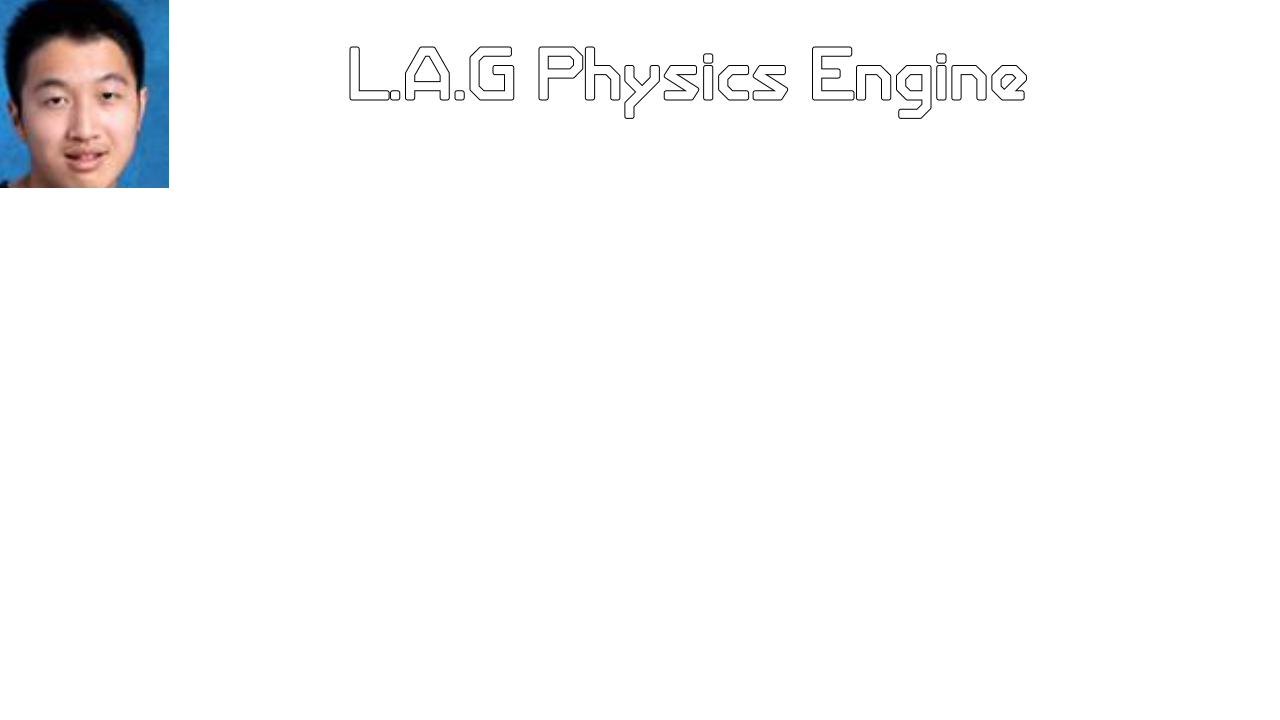
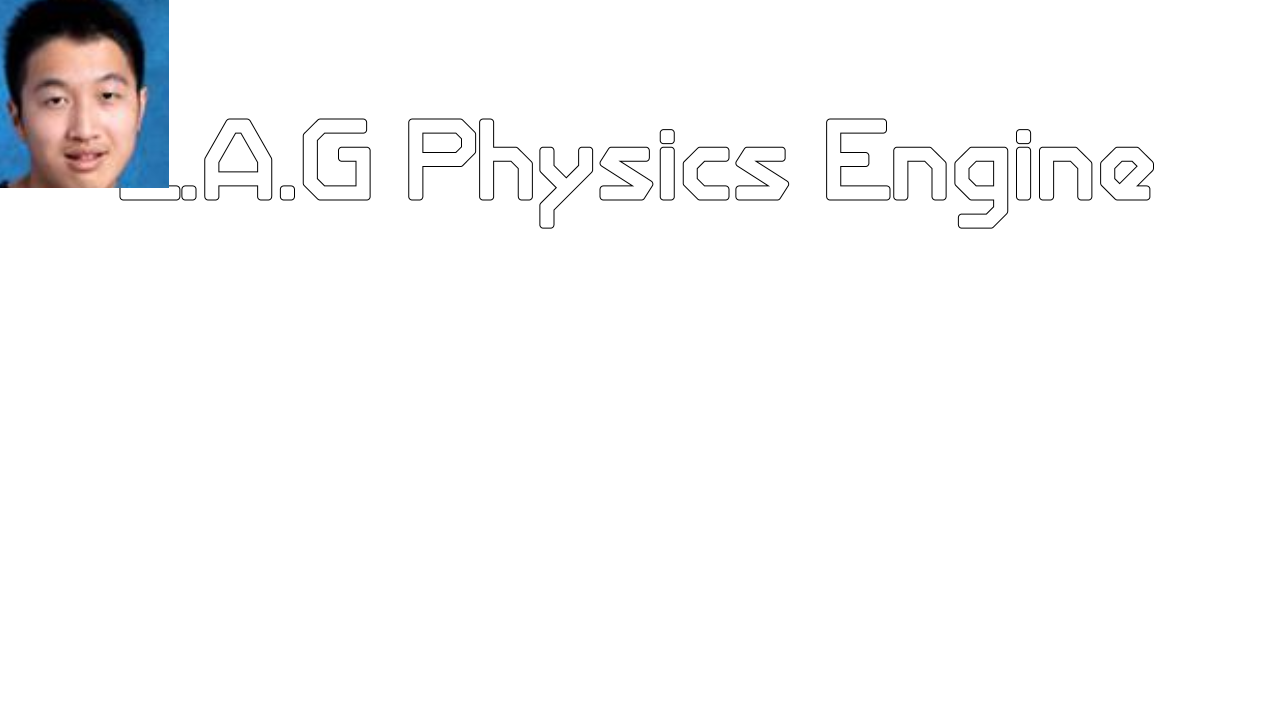
Rotations work New main menu

diff --git a/src/RigidBody.java b/src/RigidBody.java
@@ -180,7 +180,7 @@ public class RigidBody{
 	}
 
 	//Moves the rigid body based on the forces acting on it
-	public void updateVelocity(double timeStep){
+	public void updateVelocity(double timeStep, boolean allowRotate){
 		if(!fixed) {
 			velocity = velocity.add(tmpVel);
 			double netX = 0;
@@ -200,6 +200,24 @@ public class RigidBody{
 			Point2D avgAccel = prevAccel.add(acceleration);
 			avgAccel = new Point2D(avgAccel.getX() / 2, avgAccel.getY() / 2);
 			velocity = velocity.add(new Point2D(avgAccel.getX() * timeStep, avgAccel.getY() * timeStep));
+
+			if(allowRotate){
+				if(spin > 0.0001){
+					spin -= mass*timeStep/1000.0;
+				}
+				else if(spin < -0.0001){
+					spin += mass*timeStep/1000.0;
+				}
+				else{
+					spin = 0;
+				}
+			}
+			else{
+				spin = 0;
+			}
+
+
+
 		}
 	}
 
@@ -220,7 +238,7 @@ public class RigidBody{
 
 	//Updates the states of two rigid bodies colliding at a given point
 	//Will change normal and rotational velocity
-	public static void resolveCollision(RigidBody a, RigidBody b, Point2D[] info, double simSpeed){
+	public static void resolveCollision(RigidBody a, RigidBody b, Point2D[] info, double simSpeed, boolean allowRotate){
 		//Updates velocities of 2 bodies that have collided
 		Point2D normal = info[0];	//Vector of dist from point to side
 		Point2D vertex = info[1];	//Point of collison
@@ -240,7 +258,7 @@ public class RigidBody{
 
 
 		double e = Math.min(a.restitution, b.restitution);	//How sticky the shapes are
-		double rot = 0;// det(relA, normalUnit) * det(relA, normalUnit) / a.MOI + det(relB, normalUnit) * det(relB, normalUnit) / b.MOI;
+		double rot = allowRotate ?  det(relA, normalUnit) * det(relA, normalUnit) / a.MOI + det(relB, normalUnit) * det(relB, normalUnit) / b.MOI : 0;
 		double numerator = -(1 + e) * normalVel;
 		double denom = (1/a.mass + 1/b.mass + rot);
 		double j = numerator/denom;
@@ -251,13 +269,14 @@ public class RigidBody{
 		a.velocity = a.velocity.subtract(impulse.multiply(1 / a.mass));	//The object doing the collision is slowed
 		b.velocity = b.velocity.add(impulse.multiply(1 / b.mass));	    //The object being hit is sped up
 
-		//Causes objects to spin based on their MOI
-		//a.spin += (1/a.MOI) * det(relA, normalUnit) * j;
-		//b.spin -= (1/b.MOI) * det(relB, normalUnit) * j;
+		if(allowRotate) {
+			a.spin += (1 / a.MOI) * det(relA, normalUnit) * j;
+			b.spin -= (1 / b.MOI) * det(relB, normalUnit) * j;
+		}
 	}
 
 	//Gets the normal if two rigidbodies are colliding else null
-	public static void isColliding(RigidBody a, RigidBody b, double simSpeed){
+	public static void isColliding(RigidBody a, RigidBody b, double simSpeed, boolean allowRotate){
 		if(a.polygon.getBoundsInLocal().intersects(b.polygon.getBoundsInLocal())){
 
 			ObservableList<Double> aVertices = a.polygon.getPoints();
@@ -290,7 +309,7 @@ public class RigidBody{
 					}
 					info[0] = normalDirection; info[1] = contact;
 					if (contact != null) {
-						resolveCollision(a, b, info, simSpeed);
+						resolveCollision(a, b, info, simSpeed, allowRotate);
 						penetrationFix(a, b, info[0]);
 					}
 				}
@@ -299,33 +318,41 @@ public class RigidBody{
 	}
 
 	//Runs all the methods on the rigidbody
-	public void run(double simSpeed, Point2D gravity, ArrayList<RigidBody> rigidBodies){
+	public void run(double simSpeed, Point2D gravity, ArrayList<RigidBody> rigidBodies, boolean allowRotate){
 		addForce(gravity.multiply(mass));
 		for(RigidBody body : rigidBodies) {
 			if(!body.equals(this) && (!this.fixed || !body.fixed)){
 				//CircleBody rigidbody collision checking and executing
-				if(this.polygon.getPoints() == null && body.polygon.getPoints() == null) { isColliding((CircleBody)body, (CircleBody)this, simSpeed); }
-				else if(this.polygon.getPoints() == null){ isColliding((CircleBody)this, body, simSpeed); }
-				else if(body.polygon.getPoints() == null){ isColliding(this, (CircleBody)body, simSpeed); }
-				else{ isColliding(this, body, simSpeed); }
+				if(this.polygon.getPoints() == null && body.polygon.getPoints() == null) { isColliding((CircleBody)body, (CircleBody)this, simSpeed, allowRotate); }
+				else if(this.polygon.getPoints() == null){ isColliding((CircleBody)this, body, simSpeed, allowRotate); }
+				else if(body.polygon.getPoints() == null){ isColliding(this, (CircleBody)body, simSpeed, allowRotate); }
+				else{ isColliding(this, body, simSpeed, allowRotate); }
 			}
 		}
 		updateSpin(simSpeed);
-		updateVelocity(simSpeed);
+		updateVelocity(simSpeed, allowRotate);
 		clearForces();
 	}
 
 
 	//Puts rigid body back to starting state
-	public void reset(double newScale){
-		spin = startSpin;
-		velocity = startVel;
-		tmpSpin = 0;
-		tmpVel = new Point2D(0, 0);
-		acceleration = new Point2D(0, 0);
-		angAccel = 0;
-		this.setScale(newScale);
-		this.update(startXPoints, startYPoints, startCenter);
+	public void reset(double newScale, boolean resetPos){
+        this.setScale(newScale);
+	    if(resetPos){
+            spin = startSpin;
+            velocity = startVel;
+            tmpSpin = 0;
+            tmpVel = new Point2D(0, 0);
+            acceleration = new Point2D(0, 0);
+            angAccel = 0;
+            this.update(startXPoints, startYPoints, startCenter);
+        }
+        else{
+            this.update(xPoints, yPoints, center);
+        }
+
+
+
 	}
 
 	public Point2D getSize(){

diff --git a/src/SystemMenu.java b/src/SystemMenu.java
@@ -153,7 +153,7 @@ public class SystemMenu {
         Label scaleLabel = new Label("Scale:");
         scaleLabel.setPrefWidth(80);
 
-        TextField scaleInput = new TextField();
+        TextField scaleInput = new TextField("1");
         scaleInput.setPrefWidth(100);
 
         GridPane.setConstraints(scaleLabel,0,1);
@@ -167,7 +167,7 @@ public class SystemMenu {
         Label gravityLabel = new Label("Ver. Gravity:");
         gravityLabel.setPrefWidth(80);
 
-        TextField gravityInput = new TextField();
+        TextField gravityInput = new TextField("1");
         gravityInput.setPrefWidth(100);
 
         GridPane.setConstraints(gravityLabel,0,2);
@@ -182,7 +182,7 @@ public class SystemMenu {
         Label sideForceLabel = new Label("Hor. Gravity:");
         sideForceLabel.setPrefWidth(80);
 
-        TextField sideForceInput = new TextField();
+        TextField sideForceInput = new TextField("0");
         sideForceInput.setPrefWidth(100);
 
         GridPane.setConstraints(sideForceLabel,0,3);
@@ -194,7 +194,7 @@ public class SystemMenu {
 
         Label speedLabel = new Label("Simulation Speed:");
 
-        TextField speedInput = new TextField();
+        TextField speedInput = new TextField("0.05");
         speedInput.setPrefWidth(100);
 
         GridPane.setConstraints(speedLabel,0,4);
@@ -259,6 +259,7 @@ public class SystemMenu {
             @Override
             public void handle(ActionEvent actionEvent) {
                 //Takes all the text box input for environment settings and applies them
+
                 if (isDouble(xInput.getText())) OriginX = Double.parseDouble(xInput.getText());
                 if (isDouble(yInput.getText())) OriginY = Double.parseDouble(yInput.getText());
                 if (isDouble(scaleInput.getText())) ScaleVal = Double.parseDouble(scaleInput.getText());
@@ -271,21 +272,28 @@ public class SystemMenu {
                 environment.setSimulationSpeed(speedVal);
                 environment.setScale(ScaleVal);
 
-                environment.reset();
+                environment.reset(true);
             }
         });
 
         //Resets environment to default settings
-        Button clearBtn = new Button("Clear");
+        Button clearBtn = new Button("Apply");
         clearBtn.setOnAction(new EventHandler<ActionEvent>() {
             @Override
             public void handle(ActionEvent actionEvent) {
-                xInput.setText("0");
-                yInput.setText("0");
-                scaleInput.setText("1");
-                gravityInput.setText("1");
-                sideForceInput.setText("0");
-                speedInput.setText("0.05");
+                if (isDouble(xInput.getText())) OriginX = Double.parseDouble(xInput.getText());
+                if (isDouble(yInput.getText())) OriginY = Double.parseDouble(yInput.getText());
+                if (isDouble(scaleInput.getText())) ScaleVal = Double.parseDouble(scaleInput.getText());
+                if (isDouble(sideForceInput.getText())) sideForceVal = Double.parseDouble(sideForceInput.getText());
+                if (isDouble(gravityInput.getText())) gravityVal = Double.parseDouble(gravityInput.getText());
+                if (isDouble(speedInput.getText())) speedVal = Double.parseDouble(speedInput.getText());
+
+                //Updates environment
+                environment.setGravity(new Point2D(sideForceVal, gravityVal));
+                environment.setSimulationSpeed(speedVal);
+                environment.setScale(ScaleVal == 0 ? Integer.MAX_VALUE : 1/ScaleVal);
+
+                environment.reset(false);
             }
         });
         bottomrow.getChildren().addAll(runBtn,resetBtn,clearBtn);
@@ -293,34 +301,6 @@ public class SystemMenu {
         GridPane.setConstraints(bottomrow,0,6,2,4);
 
         SystemPane.getChildren().add(bottomrow);
-
-
-
-
-
-
-
-
-
-
-
-
-
-
-
-
-
-
-
-
-
-
-
-
-
-
-
-
 
         leftPane.setPrefSize(900,720);
         leftPane.setMaxWidth(980);

diff --git a/src/MainMenu.java b/src/MainMenu.java
@@ -20,11 +20,14 @@ import javafx.scene.SnapshotParameters;
 import javafx.scene.canvas.Canvas;
 import javafx.scene.canvas.GraphicsContext;
 import javafx.scene.control.Button;
+import javafx.scene.effect.*;
 import javafx.scene.image.Image;
 import javafx.scene.image.WritableImage;
 import javafx.scene.layout.Pane;
 import javafx.scene.layout.StackPane;
+import javafx.scene.paint.Color;
 import javafx.scene.text.Font;
+import javafx.scene.text.Text;
 
 import javax.imageio.ImageIO;
 import java.io.File;
@@ -86,30 +89,47 @@ public class MainMenu {
         });
 
         //Canvas and graphics context
+
         Canvas canvas = new Canvas(1280,720);
         GraphicsContext graphics = canvas.getGraphicsContext2D();
+        graphics.drawImage(background, 640 - background.getWidth()/2, 360 - background.getHeight()/2);
 
-        //Title and background
-        Font ourFont = Font.loadFont(getClass().getResourceAsStream("resources/fonts/GiantRobotArmy-Medium.ttf"),72);
-        graphics.setFont(ourFont);
-        graphics.strokeText("L.A.G Physics Engine",350,100);
-        graphics.drawImage(background, 0, 0);
+        Text t = new Text();
 
+        //Create a light source
+        Light.Distant light = new Light.Distant();
+        light.setAzimuth(-135.0);
+        Lighting lighting = new Lighting();
+        lighting.setLight(light);
+        lighting.setSurfaceScale(10.0);
+        lighting.setDiffuseConstant(0.67);
+        lighting.setSpecularConstant(10);
+        lighting.setSpecularExponent(40);
 
-        final WritableImage writableImage = new WritableImage((int) canvas.getWidth(), (int) canvas.getHeight());
-        final WritableImage snapshot = canvas.snapshot(new SnapshotParameters(), writableImage);
-        File file = new File ("Ex1.png");
-        try {
-            ImageIO.write(SwingFXUtils.fromFXImage(snapshot, null), "png", file);
-        }
-        catch (Exception ex)
-        {
+        //Shadow
+        DropShadow dropShadow = new DropShadow();
+        dropShadow.setRadius(5.0);
+        dropShadow.setOffsetX(3.0);
+        dropShadow.setOffsetY(3.0);
+        dropShadow.setColor(Color.color(0.3, 0.3, 0.3));
+        dropShadow.setInput(lighting);
 
-        }
+        Bloom bloom = new Bloom();
+        bloom.setThreshold(0.02);
+        bloom.setInput(dropShadow);
+
+        t.setX(70);
+        t.setY(200);
+        t.setText("L.A.G.'s Physics Engine");
+        t.setFont(Font.loadFont(getClass().getResourceAsStream("resources/fonts/GiantRobotArmy-Medium.ttf"),110));
+        t.setFill(Color.GHOSTWHITE);
+        t.setEffect(dropShadow);
+
 
 
         //Adds all the nodes to the layout
         mainMenuLayout.getChildren().add(canvas);
+        mainMenuLayout.getChildren().add(t);
         mainMenuLayout.getChildren().add(button1);
         mainMenuLayout.getChildren().add(button2);
 

diff --git a/src/CircleBody.java b/src/CircleBody.java
@@ -65,7 +65,7 @@ public class CircleBody extends RigidBody{
         this.center = new Point2D(center.getX() + dx, center.getY() + dy);
     }
 
-    public static void isColliding(CircleBody a, CircleBody b, double simSpeed){
+    public static void isColliding(CircleBody a, CircleBody b, double simSpeed, boolean allowRotate){
         double dx = a.getCenter().getX() - b.getCenter().getY();
         double dy = a.getCenter().getY() - b.getCenter().getY();
         if(dx * dx + dy * dy <= (a.radius + b.radius) * (a.radius + b.radius)){
@@ -75,7 +75,7 @@ public class CircleBody extends RigidBody{
             Point2D[] info = {normalDirection, contact};
             if(contact != null && normalDirection != null){
                 penetrationFix(a, b, normalDirection);
-                resolveCollision(a, b, info, simSpeed);
+                resolveCollision(a, b, info, simSpeed, allowRotate);
             }
         }
     }

diff --git a/src/Environment.java b/src/Environment.java
@@ -43,7 +43,7 @@ public class Environment {
     public void run(){
         //Applies all forces
         for(RigidBody rigidBody : rigidBodies){
-            rigidBody.run(simulationSpeed, gravity, rigidBodies);
+            rigidBody.run(simulationSpeed, gravity, rigidBodies, allowRotate);
         }
         removeOffscreen(1080, 720);
     }
@@ -137,7 +137,7 @@ public class Environment {
     }
 
     //Resets all rigid bodies
-    public void reset(){ for(RigidBody body : rigidBodies) body.reset(scale);}
+    public void reset(boolean resetPos){ for(RigidBody body : rigidBodies) body.reset(scale, resetPos);}
 
     public void setGravity(Point2D grav){
         gravity = grav;
